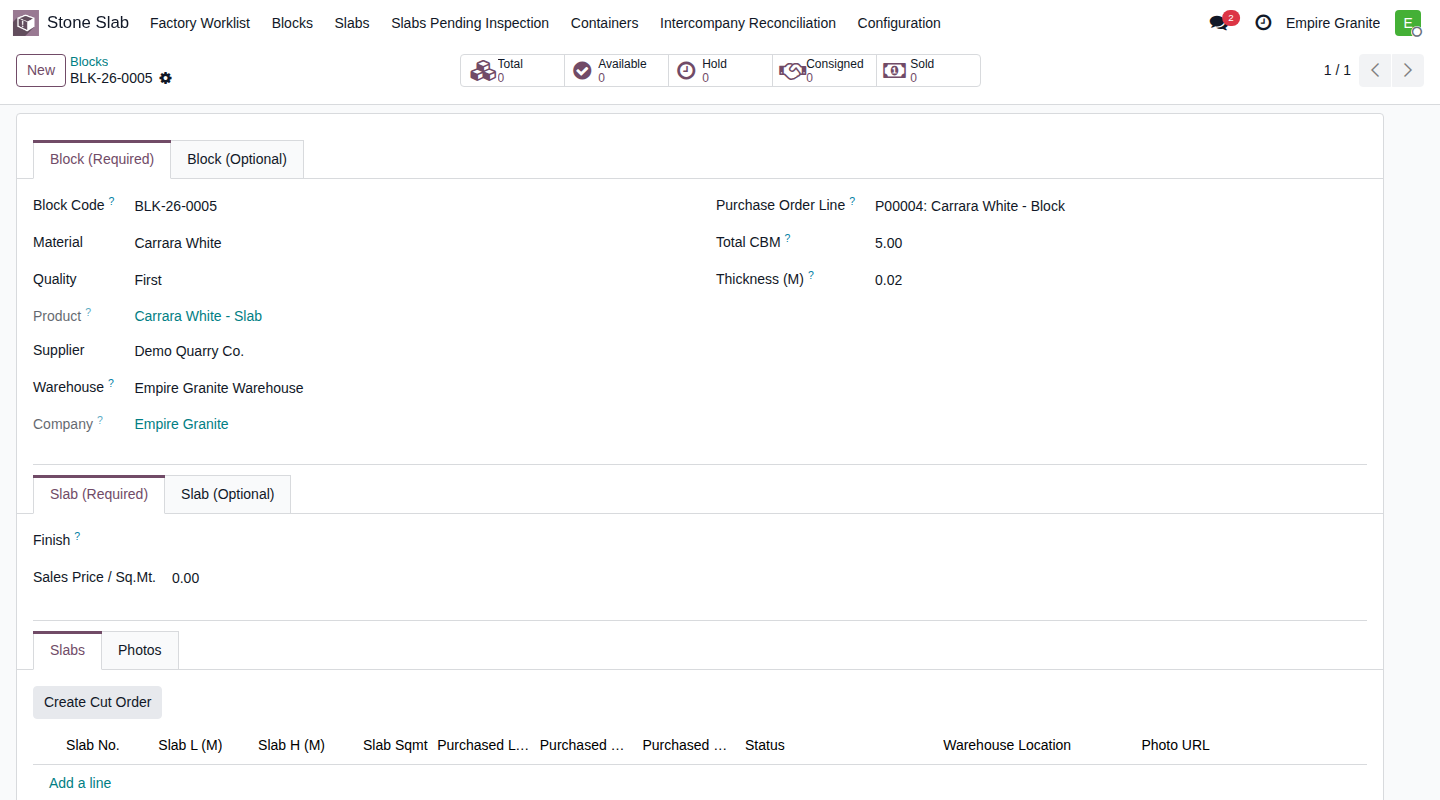
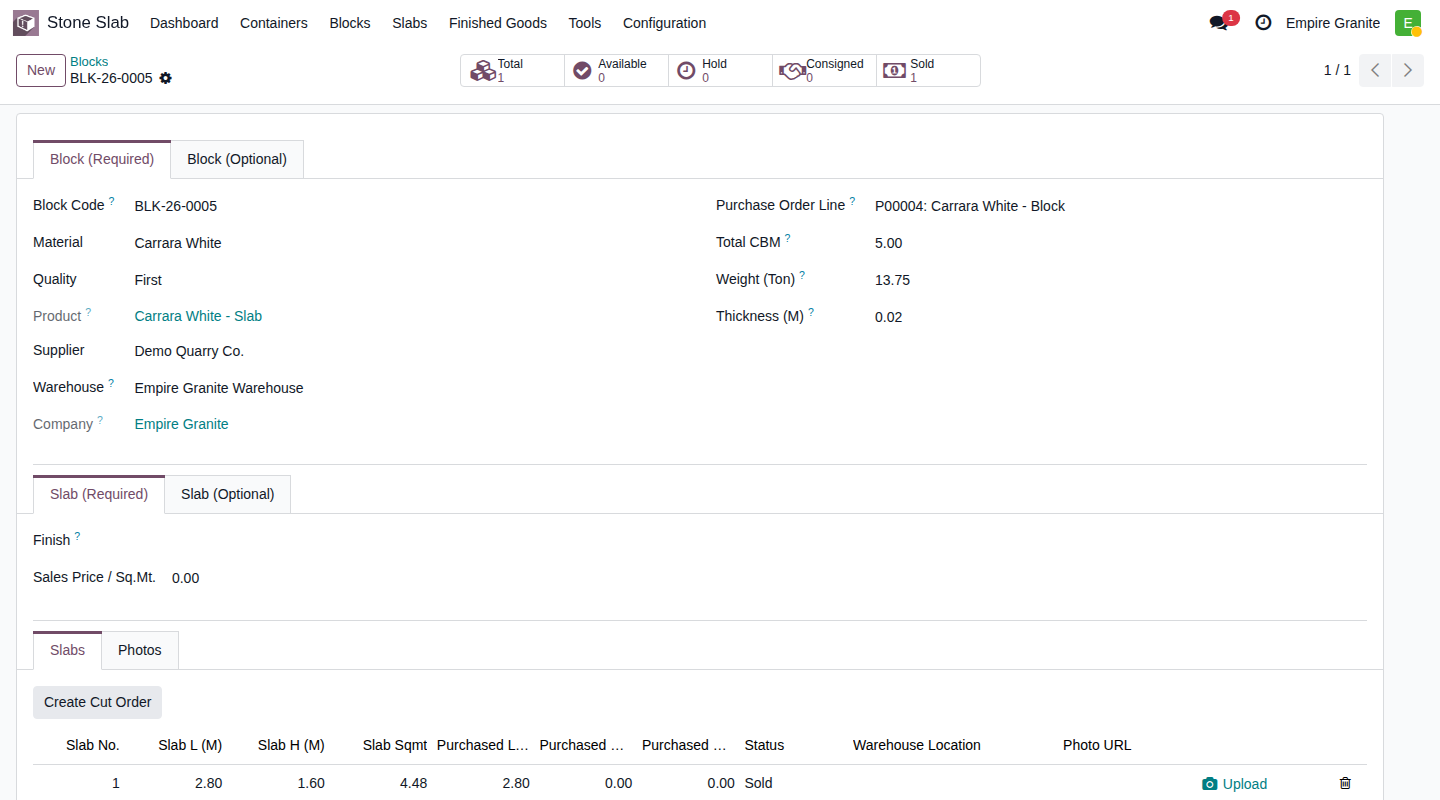
emg-o: refresh supply-intake E2E screenshot with Weight (Ton)
Re-triggered the auto-fill on the existing BLK-26-0005 fixture
(5.00 CBM x 2.75 density = 13.75 ton) instead of creating a new
one, keeping continuity with the deck's established narrative.
Updated the step bullet + caption to mention it.

diff --git a/presentations/e2e-supply-intake.html b/presentations/e2e-supply-intake.html
@@ -180,11 +180,11 @@
         <img class="flow-thumb" src="assets/supply-flow-step4.png">
         <ul class="plain-list" style="margin-top:14px;">
           <li><b>ข้อมูลนำเข้า:</b> รายละเอียดก้อนหิน — คุณภาพ และคลังที่จะรับเข้า</li>
-          <li><b>กระบวนการ:</b> เมื่อบันทึกข้อมูล ระบบรับก้อนหินเข้าสต็อกให้อัตโนมัติทันที ไม่ต้องดำเนินการรับสินค้าซ้ำอีกขั้นตอน</li>
+          <li><b>กระบวนการ:</b> เมื่อบันทึกข้อมูล ระบบรับก้อนหินเข้าสต็อกให้อัตโนมัติทันที ไม่ต้องดำเนินการรับสินค้าซ้ำอีกขั้นตอน — <b>น้ำหนัก (ตัน) คำนวณให้อัตโนมัติด้วย</b> จากปริมาตรที่กรอก ไม่ต้องคำนวณเอง</li>
         </ul>
       </div>
       <div class="col-right">
-        <div class="shot-wrap"><img class="shot" src="assets/supply-shot-block-saved.png"><div class="shot-cap">ผลลัพธ์: BLK-26-0005 บันทึกสำเร็จ ครบทุกข้อมูล หิน 5.00 ลบ.ม. เข้าสต็อกจริงทันที</div></div>
+        <div class="shot-wrap"><img class="shot" src="assets/supply-shot-block-saved.png"><div class="shot-cap">ผลลัพธ์: BLK-26-0005 บันทึกสำเร็จ ครบทุกข้อมูล หิน 5.00 ลบ.ม. (13.75 ตัน คำนวณอัตโนมัติ) เข้าสต็อกจริงทันที</div></div>
       </div>
     </div>
   </section>
